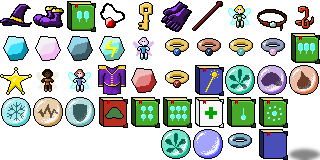
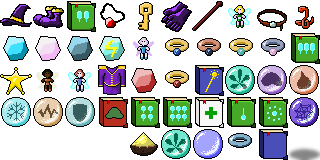
ADD Spell Item : Cast web

Changed region(s): [[0.9062, 0.5938, 1.0, 0.8125], [0.4062, 0.8125, 0.5, 1.0]]

diff --git a/src/Items.h b/src/Items.h
@@ -47,6 +47,7 @@ enum enumCastSpell
   SpellFreeze,
   SpellEarthquake,
   SpellProtection,
+  SpellWeb,
 
   SpellNone
 };
@@ -60,6 +61,7 @@ const std::string spellLabel[SpellNone] =
   "spell_freeze",
   "spell_earthquake",
   "spell_protection",
+  "spell_web",
 };
 
 /** Item type enum
@@ -116,6 +118,7 @@ enum enumItemType
   ItemManualHealth,
   ItemBookRearShot,
   ItemBookRandomShot,
+  ItemSpellWeb,
 
   NUMBER_ITEMS
 };
@@ -342,6 +345,10 @@ const itemStuct items[NUMBER_ITEMS] =
     ItemBookRandomShot, "item_book_random_shot", "item_book_random_shot_desc",
     20, true, FamiliarNone, true, true, true, 1, RarityUncommon, AlignmentNone, -1, ShotTypeStandard, SpellNone
   },
+  {
+    ItemSpellWeb, "item_spell_web", "item_spell_web_desc",
+    60, true, FamiliarNone, false, false, true, 1, RarityCommon, AlignmentNone, -1, ShotTypeStandard, SpellWeb
+  },
 };
 
 /** Item equipment type enum
@@ -387,6 +394,7 @@ enum item_equip_enum {
   EQUIP_MANUAL_HEALTH,
   EQUIP_BOOK_REAR,
   EQUIP_BOOK_RANDOM,
+  EQUIP_SPELL_WEB,
 
   NUMBER_EQUIP_ITEMS
   };

diff --git a/src/PlayerEntity.cpp b/src/PlayerEntity.cpp
@@ -1427,7 +1427,12 @@ void PlayerEntity::setActiveSpell(enumCastSpell spell)
 
   case SpellProtection:
     activeSpell.delayMax = 40.0f;
-    activeSpell.frame = ItemSpellProtection- FirstEquipItem;
+    activeSpell.frame = ItemSpellProtection - FirstEquipItem;
+    break;
+
+  case SpellWeb:
+    activeSpell.delayMax = 25.0f;
+    activeSpell.frame = ItemSpellWeb - FirstEquipItem;
     break;
 
   case SpellNone:
@@ -1463,6 +1468,9 @@ void PlayerEntity::castSpell()
       break;
     case SpellProtection:
       castProtection();
+      break;
+    case SpellWeb:
+      castWeb();
       break;
 
     case SpellNone:
@@ -1622,4 +1630,10 @@ void PlayerEntity::castProtection()
   computePlayer();
   game().makeColorEffect(X_GAME_COLOR_BLUE, 0.3f);
   SoundManager::getInstance().playSound(SOUND_SPELL_SHIELD);
+}
+
+void PlayerEntity::castWeb()
+{
+  // TODO : Implementation
+  SoundManager::getInstance().playSound(SOUND_SPIDER_WEB);
 }

diff --git a/src/PlayerEntity.h b/src/PlayerEntity.h
@@ -513,6 +513,7 @@ class PlayerEntity : public BaseCreatureEntity
     void castFreeze();
     void castEarthquake();
     void castProtection();
+    void castWeb();
 };
 
 #endif // PLAYERSPRITE_H
